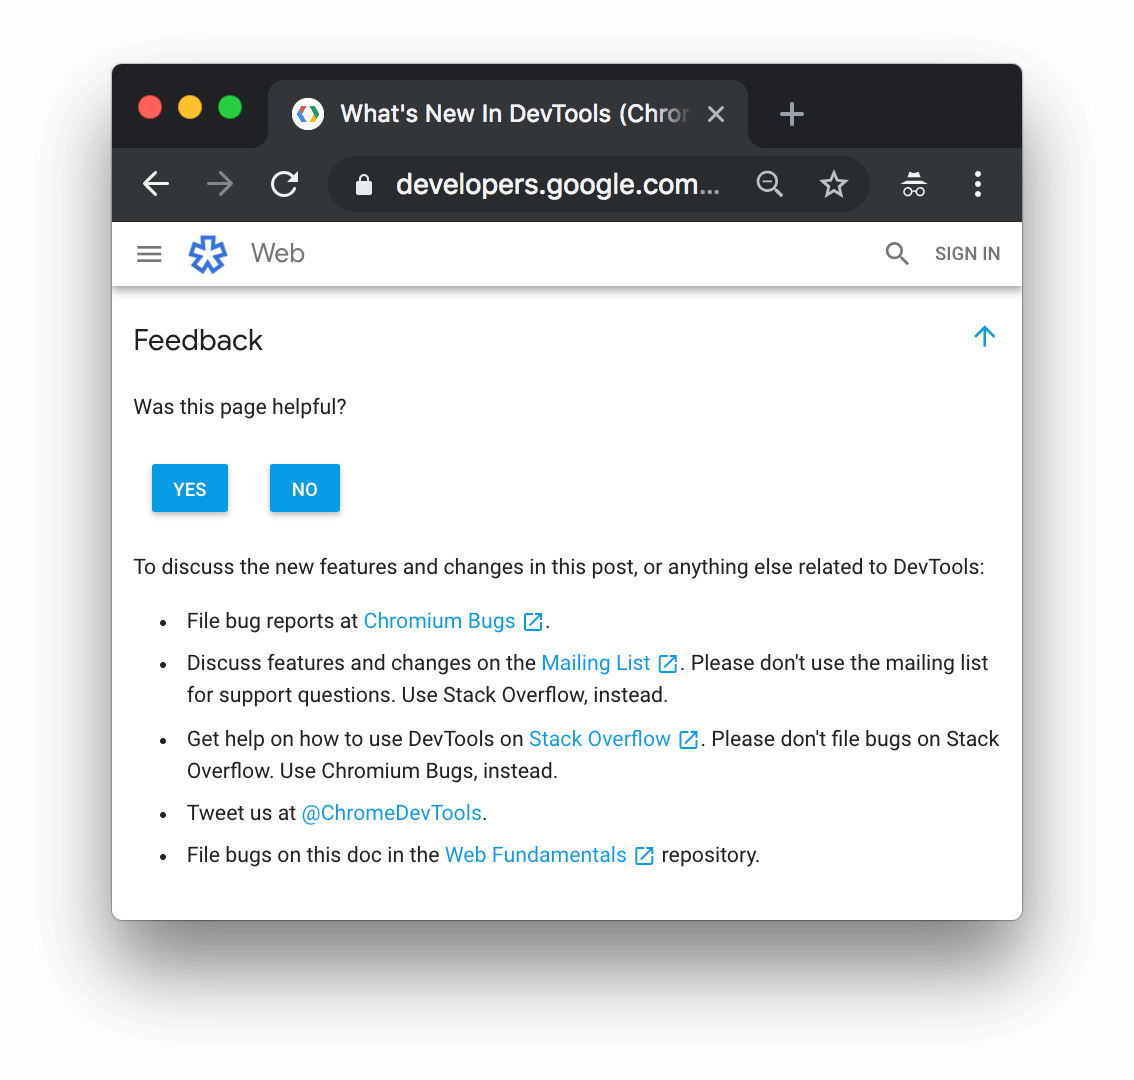
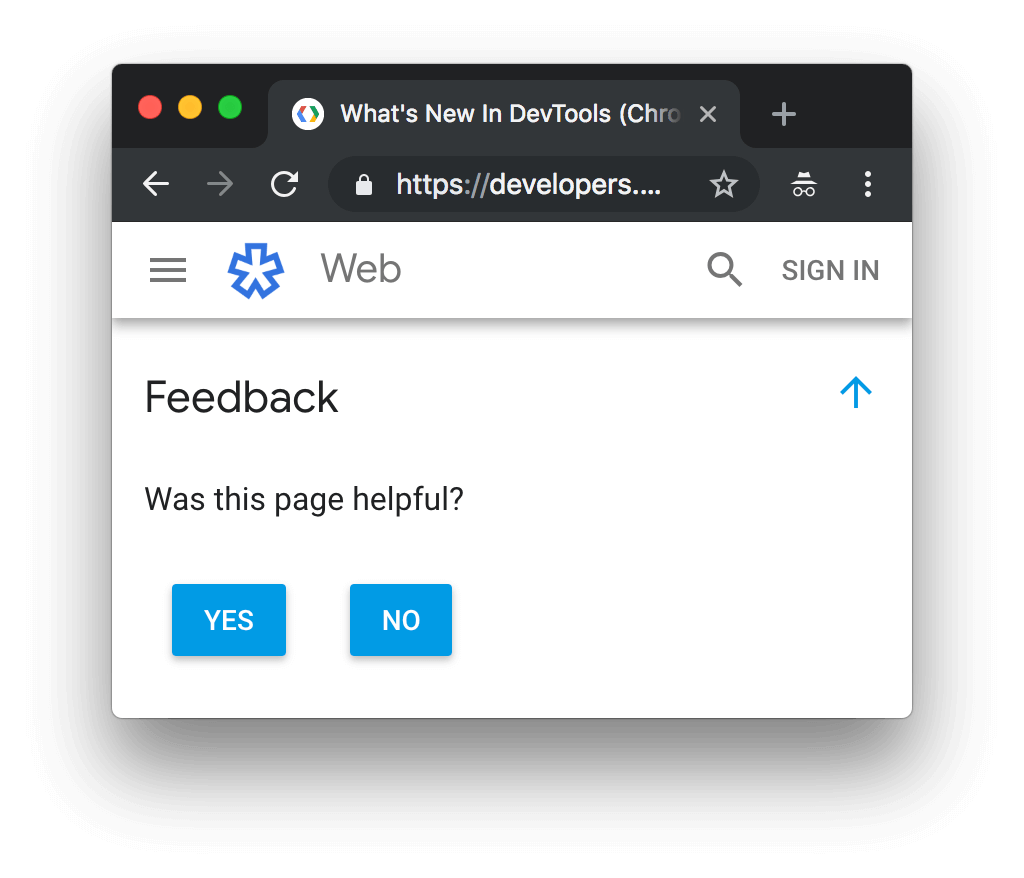
update the red buttons post

Changed region(s): [[0.0938, 0.0308, 0.9062, 0.9226], [0.8125, 0.4305, 0.8438, 0.4613], [0.75, 0.123, 0.7812, 0.1538]]

diff --git a/posts/red-buttons.md b/posts/red-buttons.md
@@ -1,19 +1,31 @@
 # Technical Writing: Use Red Buttons to Get More Feedback on Your Docs
 
-<time datetime="2018-08-31">2018 August 31</time>
+<time datetime="2018-09-21">2018 September 21</time>
 
 <p id="summary">
-  When asking users to rate a doc as helpful or unhelpful, use red buttons rather than blue
-  ones to get more responses.
+  Asking users whether or not they found a doc helpful is an easy way to measure the quality
+  of a doc. However, very few users take the time to leave feedback. If you've only got 2 or 3 responses
+  on a doc, you can't trust that the data represents the opinion of your audience at large. I've been
+  conducting various experiments to find out how to maximize the response rate. In this experiment, I learned
+  that red buttons appear to generate significantly more responses than blue ones.
 </p>
 
-I conducted an A/B test to find out if I could improve th
+Thanks to my teammate [Jason Miller](https://twitter.com/_developit) for suggesting this experiment.
 
 ## Question
 
-Does the color of 
+When asking users to leave feedback on whether a doc was helpful, will red buttons generate more responses than
+blue ones?
 
-Thanks to my teammate Jason Miller for suggesting this experiment.
+<figure>
+  <img src="/media/red.png"/>
+  <figcaption>Figure 1. Red buttons</figcaption>
+</figure>
+
+<figure>
+  <img src="/media/blue.png"/>
+  <figcaption>Figure 2. Blue buttons</figcaption>
+</figure>
 
 ## Prediction
 
@@ -23,34 +35,29 @@ Red buttons will lead to more responses than blue ones.
 
 ## Experiment
 
-50% of readers saw a [red version of the feedback widget][red].
+50% of readers saw a [red version of the feedback widget][red]. The other 50% saw a [blue version][blue].
+The color of the buttons was the only difference between the 2 versions of the doc.
 
 [red]: https://developers.google.com/web/updates/2018/05/devtools?experiment=25#feedback
-
-<figure>
-  <img src="/media/red.png"/>
-  <figcaption>Caption</figcaption>
-</figure>
-
-The other 50% saw a [blue version][blue].
-
 [blue]: https://developers.google.com/web/updates/2018/05/devtools?experiment=75#feedback
-
-<figure>
-  <img src="/media/blue.png"/>
-  <figcaption>Caption</figcaption>
-</figure>
-
-The color of the buttons was the only difference between the 2 versions of the doc.
 
 ## Result
 
-The red buttons generated ~28% more responses than the blue buttons.
+* The **Total Events** column represents the number of responses.
+* The **Avg. Value** column represents what option the users chose. Clicking "No"
+  sent a value of 0, clicking "Yes" sent a value of 1. In other words, the value of
+  0.58 for red meant that 58 out of 100 users who saw red buttons found the doc helpful. Which,
+  by the way, was surprisingly low. More on that in [Next steps](#next).
 
 <figure>
   <img src="/media/redblue.png"/>
-  <figcaption>Caption</figcaption>
+  <figcaption>Figure 3. The results</figcaption>
 </figure>
+
+
+If red buttons did not have an effect on users, then we would expect the red buttons to generate the
+same amount of responses as the blue buttons. The red buttons generated ~28% more responses than the blue buttons.
+6709 / 5315 ≈ 1.28 ≈ 28%.
 
 ## Interpretation
 
@@ -60,6 +67,18 @@ The red buttons generated ~28% more responses than the blue buttons.
   influence how users respond. For example, perhaps users find blue to be a more aesthetically-pleasing
   color, and are therefore more likely to be subconsciously nudged into responding that the doc was
   helpful than they would if the button was some other color. The data from this experiment seems to
-  disprove this hypothesis. The *Avg. Value* column in Figure X represents how users responded. In both
-  the red and blue cases, 61 out of 100 users said that the doc was helpful.
-* Design
+  disprove this hypothesis.
+
+<h2 id="next">Next steps</h2>
+
+* Regarding the surprisingly low values, I was surprised because I've seen nothing but overwhelmingly positive
+  remarks about this series on our community channels. However, I don't have a baseline for this type of content.
+  Maybe 60% is normal for release notes in general. One of my goals is to get more teams generating this sort of data,
+  so that we can begin to generate industry-wide baselines on different types of content.
+* I'm thinking that I'll next try an A/B test where 50% of users see the text "Was this page **helpful**?" whereas
+  the other 50% will see the text "Was this page **useful**?". It would be very interesting and important to me
+  if this phrasing substantially changes how users respond.
+* I'm writing a high-level post on my overall framework for metrics, which will explain how I plan to make this
+  particular data actionable. Subscribe to my mailing list to stay tuned.
+
+Email me at kayce@basqu.es or kayce@google.com to discuss.
